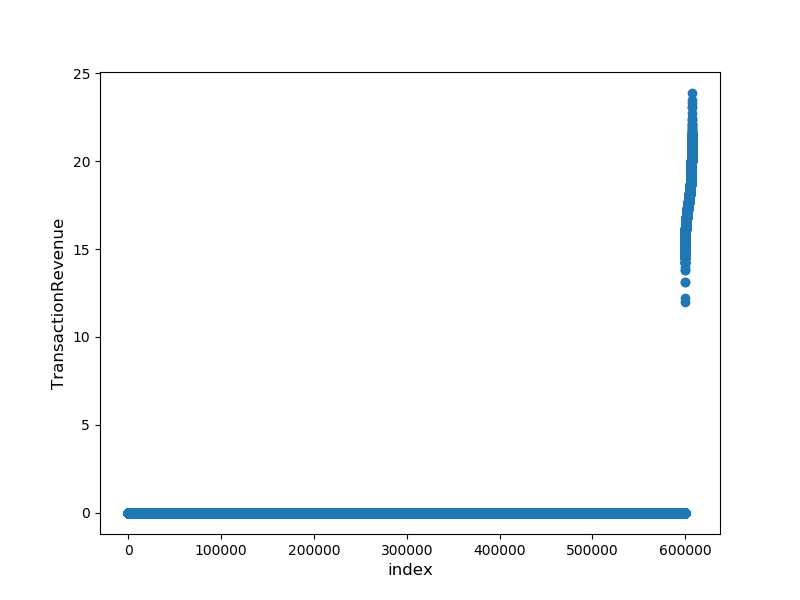
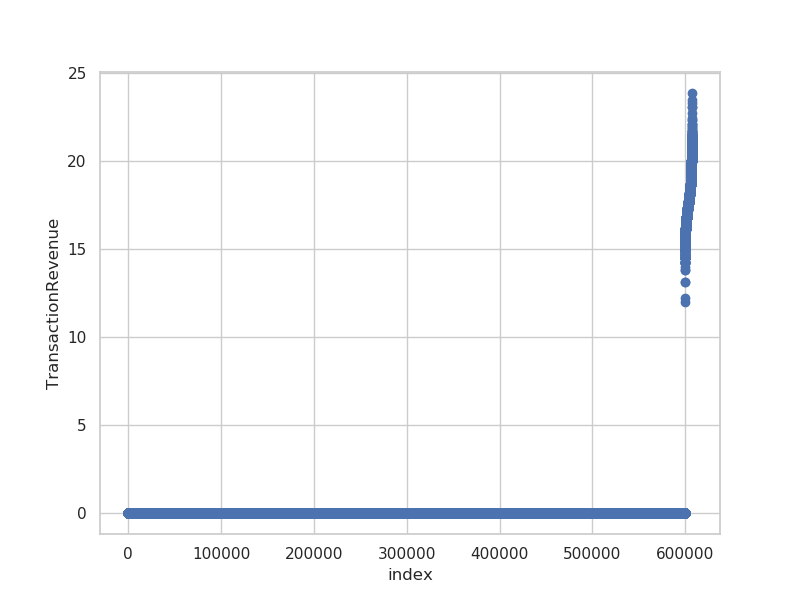
wip: graphing device category, OS, browser

diff --git a/eda.py b/eda.py
@@ -9,10 +9,33 @@ def target_variable_exploration(df):
 	#TODO: define a helper function for plotting graphs
 
 	plt.figure(figsize=(8,6))
-	plt.scatter(range(gdf.shape[0]), np.sort(gdf["totals.transactionRevenue"].values))
+	plt.scatter(range(gdf.shape[0]), np.sort(np.log1p(gdf["totals.transactionRevenue"].values)))
 	plt.xlabel('index', fontsize=12)
 	plt.ylabel('TransactionRevenue', fontsize=12)
 	plt.show()
-	plt.savefig(("target_variable_exploration_sans_log.png"))
+	plt.savefig(("target_variable_exploration.png"))
+
+def find_constant_cols(df):
+	constant_cols = [c for c in df.columns if df[c].nunique(dropna=False)==1 ]
+	return constant_cols
 
 target_variable_exploration(train_df)
+
+cols = find_constant_cols(train_df)
+
+cnt_srs = train_df.groupby('device.browser')['totals.transactionRevenue'].agg(['size', 'count', 'mean'])
+cnt_srs.columns = ["count", "count of non-zero revenue", "mean"]
+cnt_srs = cnt_srs.sort_values(by="count", ascending=False)
+print(cnt_srs.head(10))
+
+# Device Category
+cnt_srs = train_df.groupby('device.deviceCategory')['totals.transactionRevenue'].agg(['size', 'count', 'mean'])
+cnt_srs.columns = ["count", "count of non-zero revenue", "mean"]
+cnt_srs = cnt_srs.sort_values(by="count", ascending=False)
+print(cnt_srs.head(10))
+
+# Operating system
+cnt_srs = train_df.groupby('device.operatingSystem')['totals.transactionRevenue'].agg(['size', 'count', 'mean'])
+cnt_srs.columns = ["count", "count of non-zero revenue", "mean"]
+cnt_srs = cnt_srs.sort_values(by="count", ascending=False)
+print(cnt_srs.head(10))

diff --git a/dependencies.py b/dependencies.py
@@ -10,6 +10,8 @@ from pandas.io.json import json_normalize
 import matplotlib.pyplot as plt
 import seaborn as sns
 color = sns.color_palette()
+sns.set(style="whitegrid")
+sns.set_color_codes("pastel")
 
 from plotly import tools
 import plotly.offline as py

diff --git a/console_outputs.md b/console_outputs.md
@@ -1,31 +1,32 @@
-## Columns
+# Feature Discription:
 
-# channelGrouping 
+## channelGrouping 
 	- The channel via which the user came to the Store.
-# date 
+## date 
 	- The date on which the user visited the Store.
-# device 
+## device 
 	- The specifications for the device used to access the Store.
-# geoNetwork 
+## geoNetwork 
 	- This section contains information about the geography of the user.
-# socialEngagementType 
+## socialEngagementType 
 	- Engagement type, either "Socially Engaged" or "Not Socially Engaged".
-# totals 
+## totals 
 	- This section contains aggregate values across the session.
-# trafficSource 
+## trafficSource 
 	- This section contains information about the Traffic Source from which the session originated.
-# visitId 
+## visitId 
 	- An identifier for this session. This is part of the value usually stored as the _utmb cookie. This is only unique to the user. For a completely unique ID, you should use a combination of fullVisitorId and visitId.
-# visitNumber 
+## visitNumber 
 	- The session number for this user. If this is the first session, then this is set to 1.
-# visitStartTime 
+## visitStartTime 
 	- The timestamp (expressed as POSIX time).
-# hits 
+## hits 
 	- This row and nested fields are populated for any and all types of hits. Provides a record of all page visits.
-# customDimensions 
+## customDimensions 
 	- This section contains any user-level or session-level custom dimensions that are set for a session. This is a repeated field and has an entry for each dimension that is set.
-# totals 
+## totals 
 	- This set of columns mostly includes high-level aggregate data.
 
+# Results
 
 Number of unique customers with non-zero revenue :  7204 and the ratio is :  0.011865819390501416
